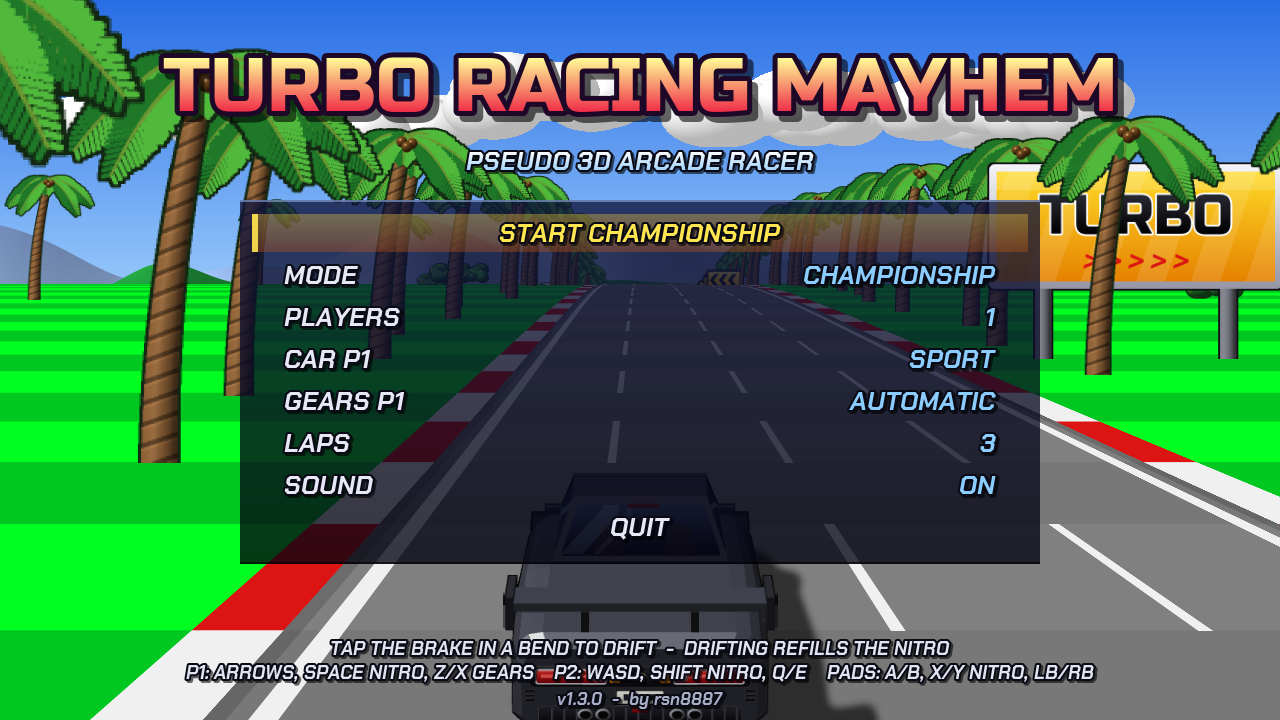
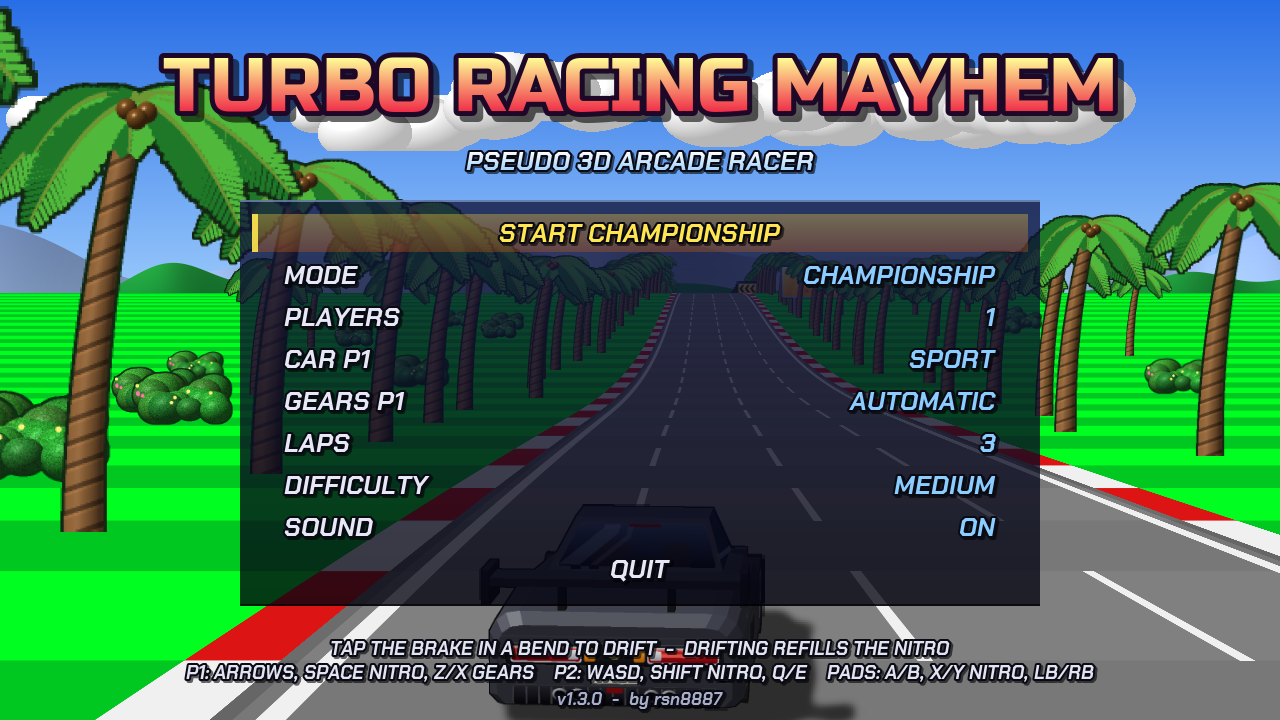
Add a difficulty setting that affects computer cars

diff --git a/src/main.cpp b/src/main.cpp
@@ -162,7 +162,7 @@ struct App {
     }
 
     // ------------------------------------------------------------- menu ----
-    enum Item { IT_START, IT_MODE, IT_STAGE, IT_PLAYERS, IT_CAR1, IT_GEARS1, IT_CAR2, IT_GEARS2, IT_LAPS, IT_SOUND, IT_QUIT };
+    enum Item { IT_START, IT_MODE, IT_STAGE, IT_PLAYERS, IT_CAR1, IT_GEARS1, IT_CAR2, IT_GEARS2, IT_LAPS, IT_DIFFICULTY, IT_SOUND, IT_QUIT };
     std::vector<Item> menuItems() const {
         std::vector<Item> v = {IT_START, IT_MODE};
         if (!opt.championship) v.push_back(IT_STAGE);
@@ -171,6 +171,7 @@ struct App {
         v.push_back(IT_GEARS1);
         if (opt.players > 1) { v.push_back(IT_CAR2); v.push_back(IT_GEARS2); }
         v.push_back(IT_LAPS);
+        v.push_back(IT_DIFFICULTY);
         v.push_back(IT_SOUND);
 #ifndef __SWITCH__
         v.push_back(IT_QUIT);
@@ -188,6 +189,7 @@ struct App {
         case IT_GEARS1:  return {"GEARS P1", opt.manual[0] ? "MANUAL" : "AUTOMATIC"};
         case IT_GEARS2:  return {"GEARS P2", opt.manual[1] ? "MANUAL" : "AUTOMATIC"};
         case IT_LAPS:    return {"LAPS", std::to_string(opt.laps)};
+        case IT_DIFFICULTY: { static const char* const D[] = {"EASY", "MEDIUM", "HARD"}; return {"DIFFICULTY", D[opt.difficulty]}; }
         case IT_SOUND:   return {"SOUND", opt.sound ? "ON" : "OFF"};
         case IT_QUIT:    return {"QUIT", ""};
         }
@@ -203,6 +205,7 @@ struct App {
         case IT_GEARS1: opt.manual[0] = !opt.manual[0]; break;
         case IT_GEARS2: opt.manual[1] = !opt.manual[1]; break;
         case IT_LAPS: opt.laps = std::clamp(opt.laps + d, 1, 9); break;
+        case IT_DIFFICULTY: opt.difficulty = (opt.difficulty + d + 3) % 3; break;
         case IT_SOUND: opt.sound = !opt.sound; audio.setEnabled(opt.sound); break;
         default: return;
         }
@@ -383,8 +386,13 @@ struct App {
         sub.color2 = rgb(160, 210, 255);
         text.draw("PSEUDO 3D ARCADE RACER", SCREEN_W / 2.0, 72, sub, ALIGN_CENTER);
         auto items = menuItems();
-        int w = 400, rowH = 21, h = int(items.size()) * rowH + 14;
-        int x0 = SCREEN_W / 2 - w / 2, y0 = 100;
+        // rows shrink for long menus (single race + 2 players) so the panel stays above the hint lines
+        const int n = int(items.size()), y0 = 100;
+        int rowH = std::min(21, (SCREEN_H - 46 - y0 - 14) / n);
+        const bool driftTip = rowH >= 17;
+        if (!driftTip) rowH = std::min(21, (SCREEN_H - 34 - y0 - 14) / n);
+        int w = 400, h = n * rowH + 14;
+        int x0 = SCREEN_W / 2 - w / 2;
         panel(x0, y0, w, h);
         for (int i = 0; i < int(items.size()); ++i) {
             bool sel = i == menuSel;
@@ -424,7 +432,7 @@ struct App {
             }
         }
         TextStyle hint = ui(9.5, rgb(225, 228, 240));
-        text.draw("TAP THE BRAKE IN A BEND TO DRIFT  -  DRIFTING REFILLS THE NITRO", SCREEN_W / 2.0, SCREEN_H - 42, hint, ALIGN_CENTER);
+        if (driftTip) text.draw("TAP THE BRAKE IN A BEND TO DRIFT  -  DRIFTING REFILLS THE NITRO", SCREEN_W / 2.0, SCREEN_H - 42, hint, ALIGN_CENTER);
         text.draw("P1: ARROWS, SPACE NITRO, Z/X GEARS    P2: WASD, SHIFT NITRO, Q/E    PADS: A/B, X/Y NITRO, LB/RB", SCREEN_W / 2.0, SCREEN_H - 30, hint, ALIGN_CENTER);
         text.draw("v" GAME_VERSION "  -  by rsn8887", SCREEN_W / 2.0, SCREEN_H - 16, ui(8.5, rgb(170, 175, 200)), ALIGN_CENTER);
     }
@@ -687,9 +695,9 @@ int main(int argc, char** argv) {
 #endif
     // test mode: --shot out.bmp [--stage N] [--seconds S] [--players P] [--title] [--auto]
     const char* shot = nullptr;
-    int shotStage = 0, shotPlayers = 1;
+    int shotStage = 0, shotPlayers = 1, shotDifficulty = 1;
     double shotSeconds = 3;
-    bool shotTitle = false, shotAuto = false, bench = false, info = false, carsheet = false;
+    bool shotTitle = false, shotSingle = false, shotAuto = false, bench = false, info = false, carsheet = false;
     double pilot = 0;   // --pilot <caution 0..1>: see pilotInput
     double telemetry = 0;
     int winW = 0, winH = 0;
@@ -701,7 +709,9 @@ int main(int argc, char** argv) {
         else if (!std::strcmp(argv[i], "--stage") && i + 1 < argc) shotStage = std::atoi(argv[++i]);
         else if (!std::strcmp(argv[i], "--seconds") && i + 1 < argc) shotSeconds = std::atof(argv[++i]);
         else if (!std::strcmp(argv[i], "--players") && i + 1 < argc) shotPlayers = std::atoi(argv[++i]);
+        else if (!std::strcmp(argv[i], "--difficulty") && i + 1 < argc) shotDifficulty = std::atoi(argv[++i]);
         else if (!std::strcmp(argv[i], "--title")) shotTitle = true;
+        else if (!std::strcmp(argv[i], "--single")) shotSingle = true;
         else if (!std::strcmp(argv[i], "--auto")) shotAuto = true;
         else if (!std::strcmp(argv[i], "--pilot") && i + 1 < argc) pilot = std::atof(argv[++i]);
         else if (!std::strcmp(argv[i], "--bench")) bench = true;
@@ -752,11 +762,15 @@ int main(int argc, char** argv) {
         std::vector<double> frameMs;
         if (shotCar >= 0) app.opt.carType[0] = app.opt.carType[1] = shotCar;
         if (shotTitle) {
+            app.opt.players = shotPlayers;
+            app.opt.difficulty = std::clamp(shotDifficulty, 0, 2);
+            if (shotSingle) app.opt.championship = false;
             if (shotMenu >= 0) app.menuSel = shotMenu;
             app.startAttract(shotStage);
             for (int i = 0; i < int(shotSeconds * 60); ++i) app.tick(STEP);
         } else {
             app.opt.players = shotPlayers;
+            app.opt.difficulty = std::clamp(shotDifficulty, 0, 2);
             app.opt.championship = false;
             app.opt.startStage = shotStage;
             Uint64 s0 = SDL_GetPerformanceCounter();

diff --git a/src/race.cpp b/src/race.cpp
@@ -122,8 +122,18 @@ double Race::delta(double a, double b) const {
     return d;
 }
 
+// How the difficulty changes the CPU drivers (medium = as they always were): their pace on the straights,
+// the speed they carry into bends, how hard they accelerate out of them, and how often they make mistakes.
+struct Difficulty { double pace, corner, accel, mistakes; };
+constexpr Difficulty DIFFICULTY[3] = {
+    {0.90, 0.92, 0.85, 1.8},   // easy
+    {1.00, 1.00, 1.00, 1.0},   // medium
+    {1.05, 1.06, 1.15, 0.5},   // hard
+};
+
 void Race::start(int stage, const std::vector<Driver>& drivers, const Options& opt, bool attractMode) {
     attract = attractMode;
+    difficulty_ = attract ? 1 : std::clamp(opt.difficulty, 0, 2);
     track.build(stage);
     laps = attract ? 999 : opt.laps;
     manual[0] = opt.manual[0]; manual[1] = opt.manual[1];
@@ -161,6 +171,10 @@ void Race::start(int stage, const std::vector<Driver>& drivers, const Options& o
         c.pacePhase = rnd(0, 6.283);
         c.corner = rnd(0.88, 1.04) + (c.skill - 0.9) * 1.3;   // better drivers carry much more speed into bends
         c.accelK = rnd(0.9, 1.1) * (0.8 + 1.0 * (c.skill - 0.79));   // and get out of them quicker
+        if (d.player < 0) {
+            c.corner *= DIFFICULTY[difficulty_].corner;
+            c.accelK *= DIFFICULTY[difficulty_].accel;
+        }
         int col = g % 2;                       // pole on the left, then alternating sides
         c.dist = -GRID_FRONT - g * GRID_SLOT;
         if (attract) c.dist += SEG_LEN * 40;
@@ -437,9 +451,10 @@ void Race::updateAI(Car& c, double dt) {
     // personality: each driver's pace drifts slowly up and down, and now and then someone makes a
     // mistake and lifts for a moment - this spreads the field out over a lap
     if (!c.autopilot) {
-        target *= 1 + 0.06 * std::sin(time * c.paceFreq * 6.283 + c.pacePhase);
+        const Difficulty& df = DIFFICULTY[difficulty_];
+        target *= df.pace * (1 + 0.06 * std::sin(time * c.paceFreq * 6.283 + c.pacePhase));
         if (c.mistake > 0) { c.mistake -= dt; target *= 0.75; }
-        else if (rnd(0, 1) < dt * (0.02 + 0.06 * (1 - c.skill))) c.mistake = rnd(0.8, 2.2);   // weaker drivers err more
+        else if (rnd(0, 1) < dt * (0.02 + 0.06 * (1 - c.skill)) * df.mistakes) c.mistake = rnd(0.8, 2.2);   // weaker drivers err more
     }
     // slow down for upcoming bends (look further ahead at higher speed)
     double maxC = 0;

diff --git a/src/race.h b/src/race.h
@@ -69,6 +69,7 @@ struct Options {
     bool sound = true;
     int startStage = 0;
     bool championship = true;
+    int difficulty = 1;       // CPU drivers: 0 easy, 1 medium, 2 hard (see DIFFICULTY in race.cpp)
 };
 
 enum class RacePhase { Countdown, Racing, Over };
@@ -97,6 +98,7 @@ public:
 
 private:
     double bonusA_ = 30, bonusB_ = 30;
+    int difficulty_ = 1;
     void updateHuman(Car& c, const PlayerInput& in, double dt);
     void updateAI(Car& c, double dt);
     void physicsCommon(Car& c, double dt);

diff --git a/README.md b/README.md
@@ -1,6 +1,6 @@
 # Turbo Racing Mayhem
 
-A pseudo-3D arcade racer in the style of Outrun and Lotus Esprit Turbo Challenge, written in C++17 with SDL2. It has 11 stages (from a palm-lined coast to a chequerboard road in a sci-fi city, a rainbow road in Rio, Paris, the Autobahn and Florence), 6 car types, 20 cars per race, championship and single-race modes, and 2-player split screen.
+A pseudo-3D arcade racer in the style of Outrun and Lotus Esprit Turbo Challenge, written in C++17 with SDL2. It has 11 stages (from a palm-lined coast to a chequerboard road in a sci-fi city, a rainbow road in Rio, Paris, the Autobahn and Florence), 6 car types, 20 cars per race, championship and single-race modes, three difficulty levels for the CPU drivers (Easy, Medium, Hard) and 2-player split screen.
 
 ![title screen](screenshot_title.png)
 
